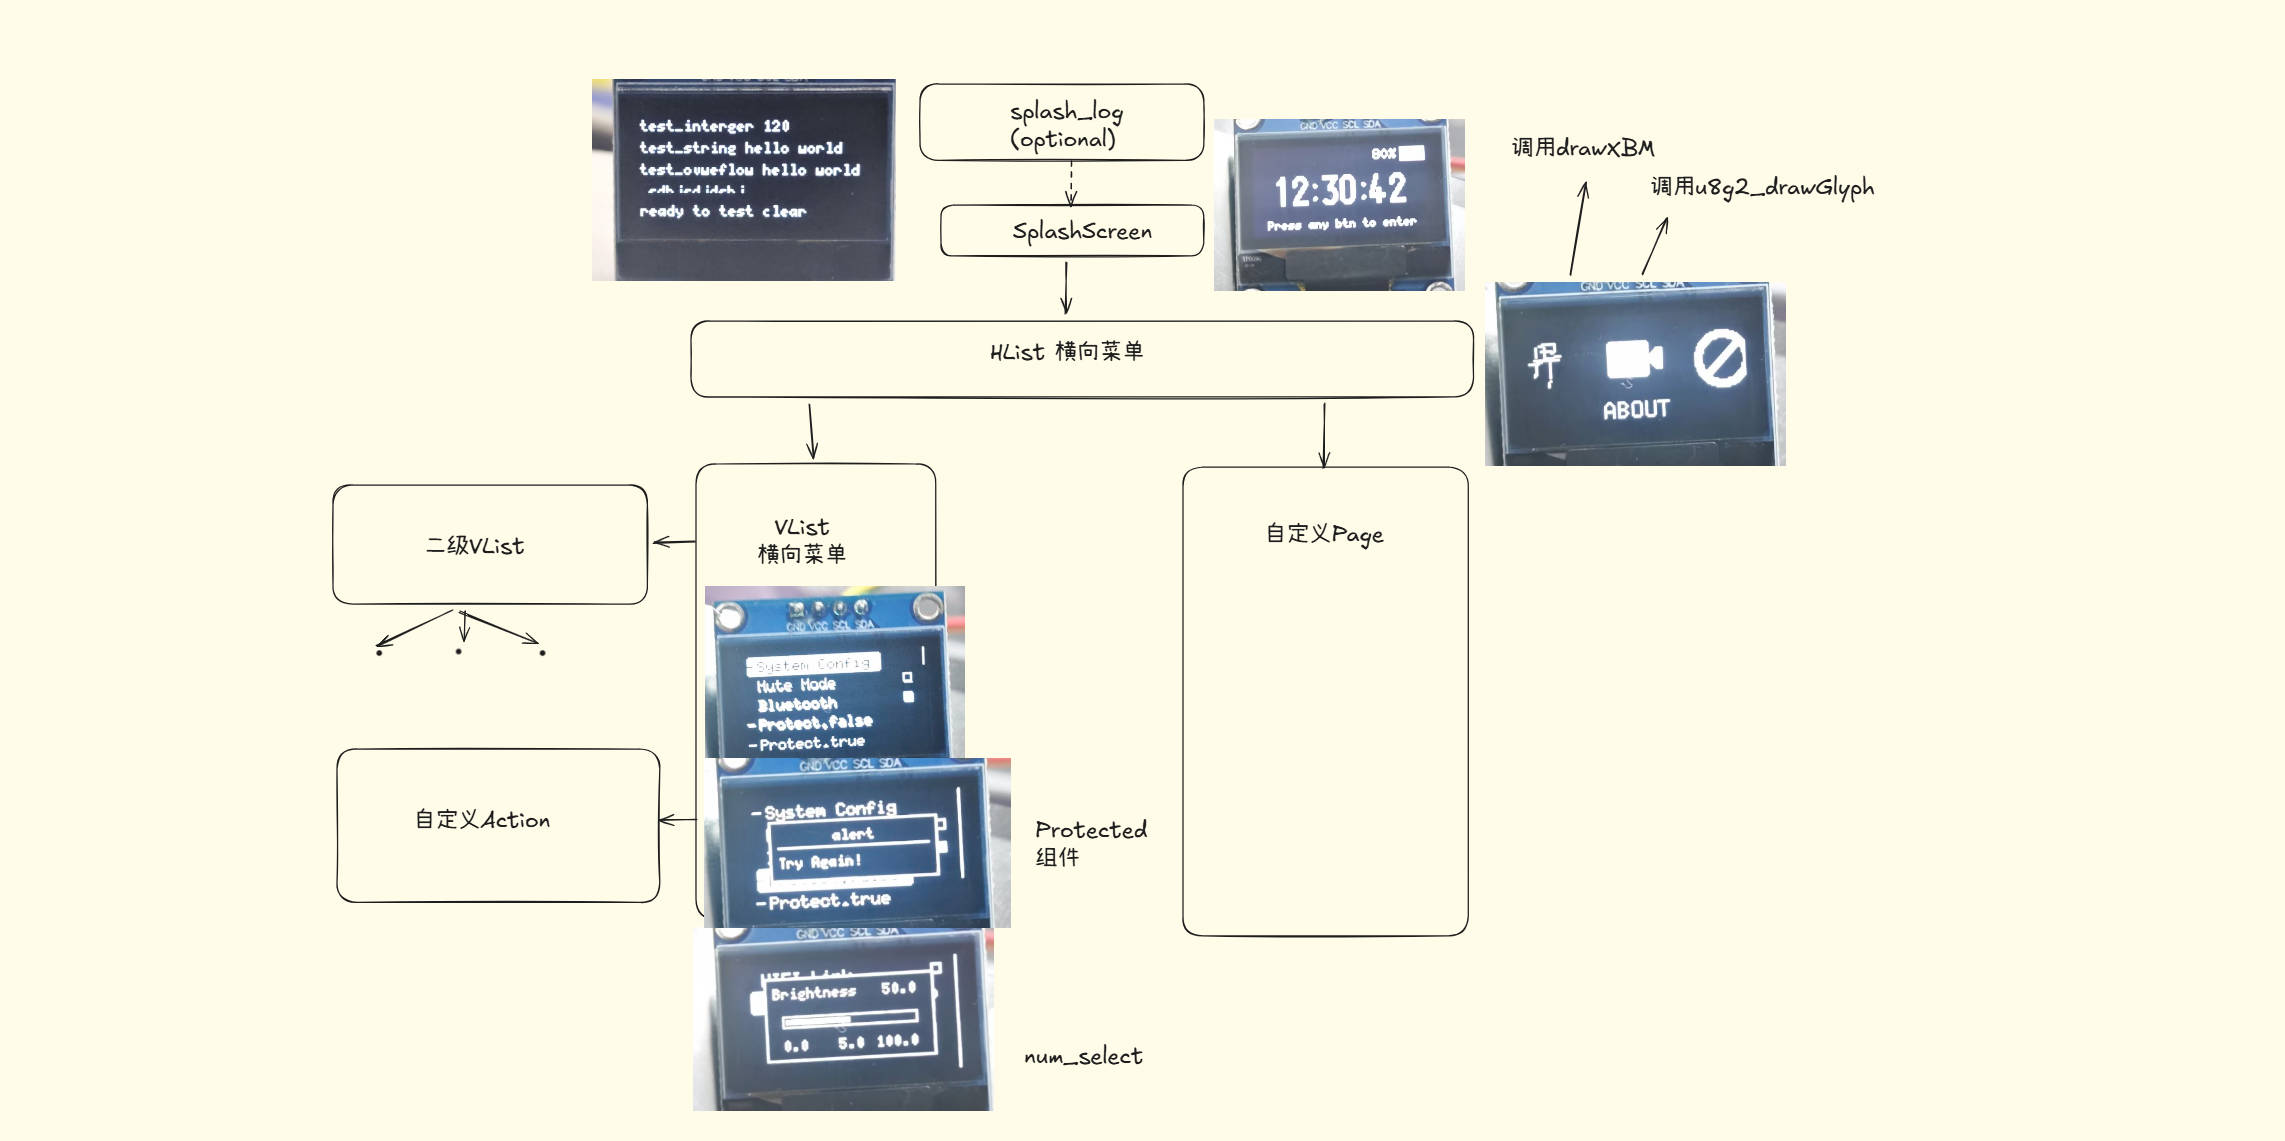
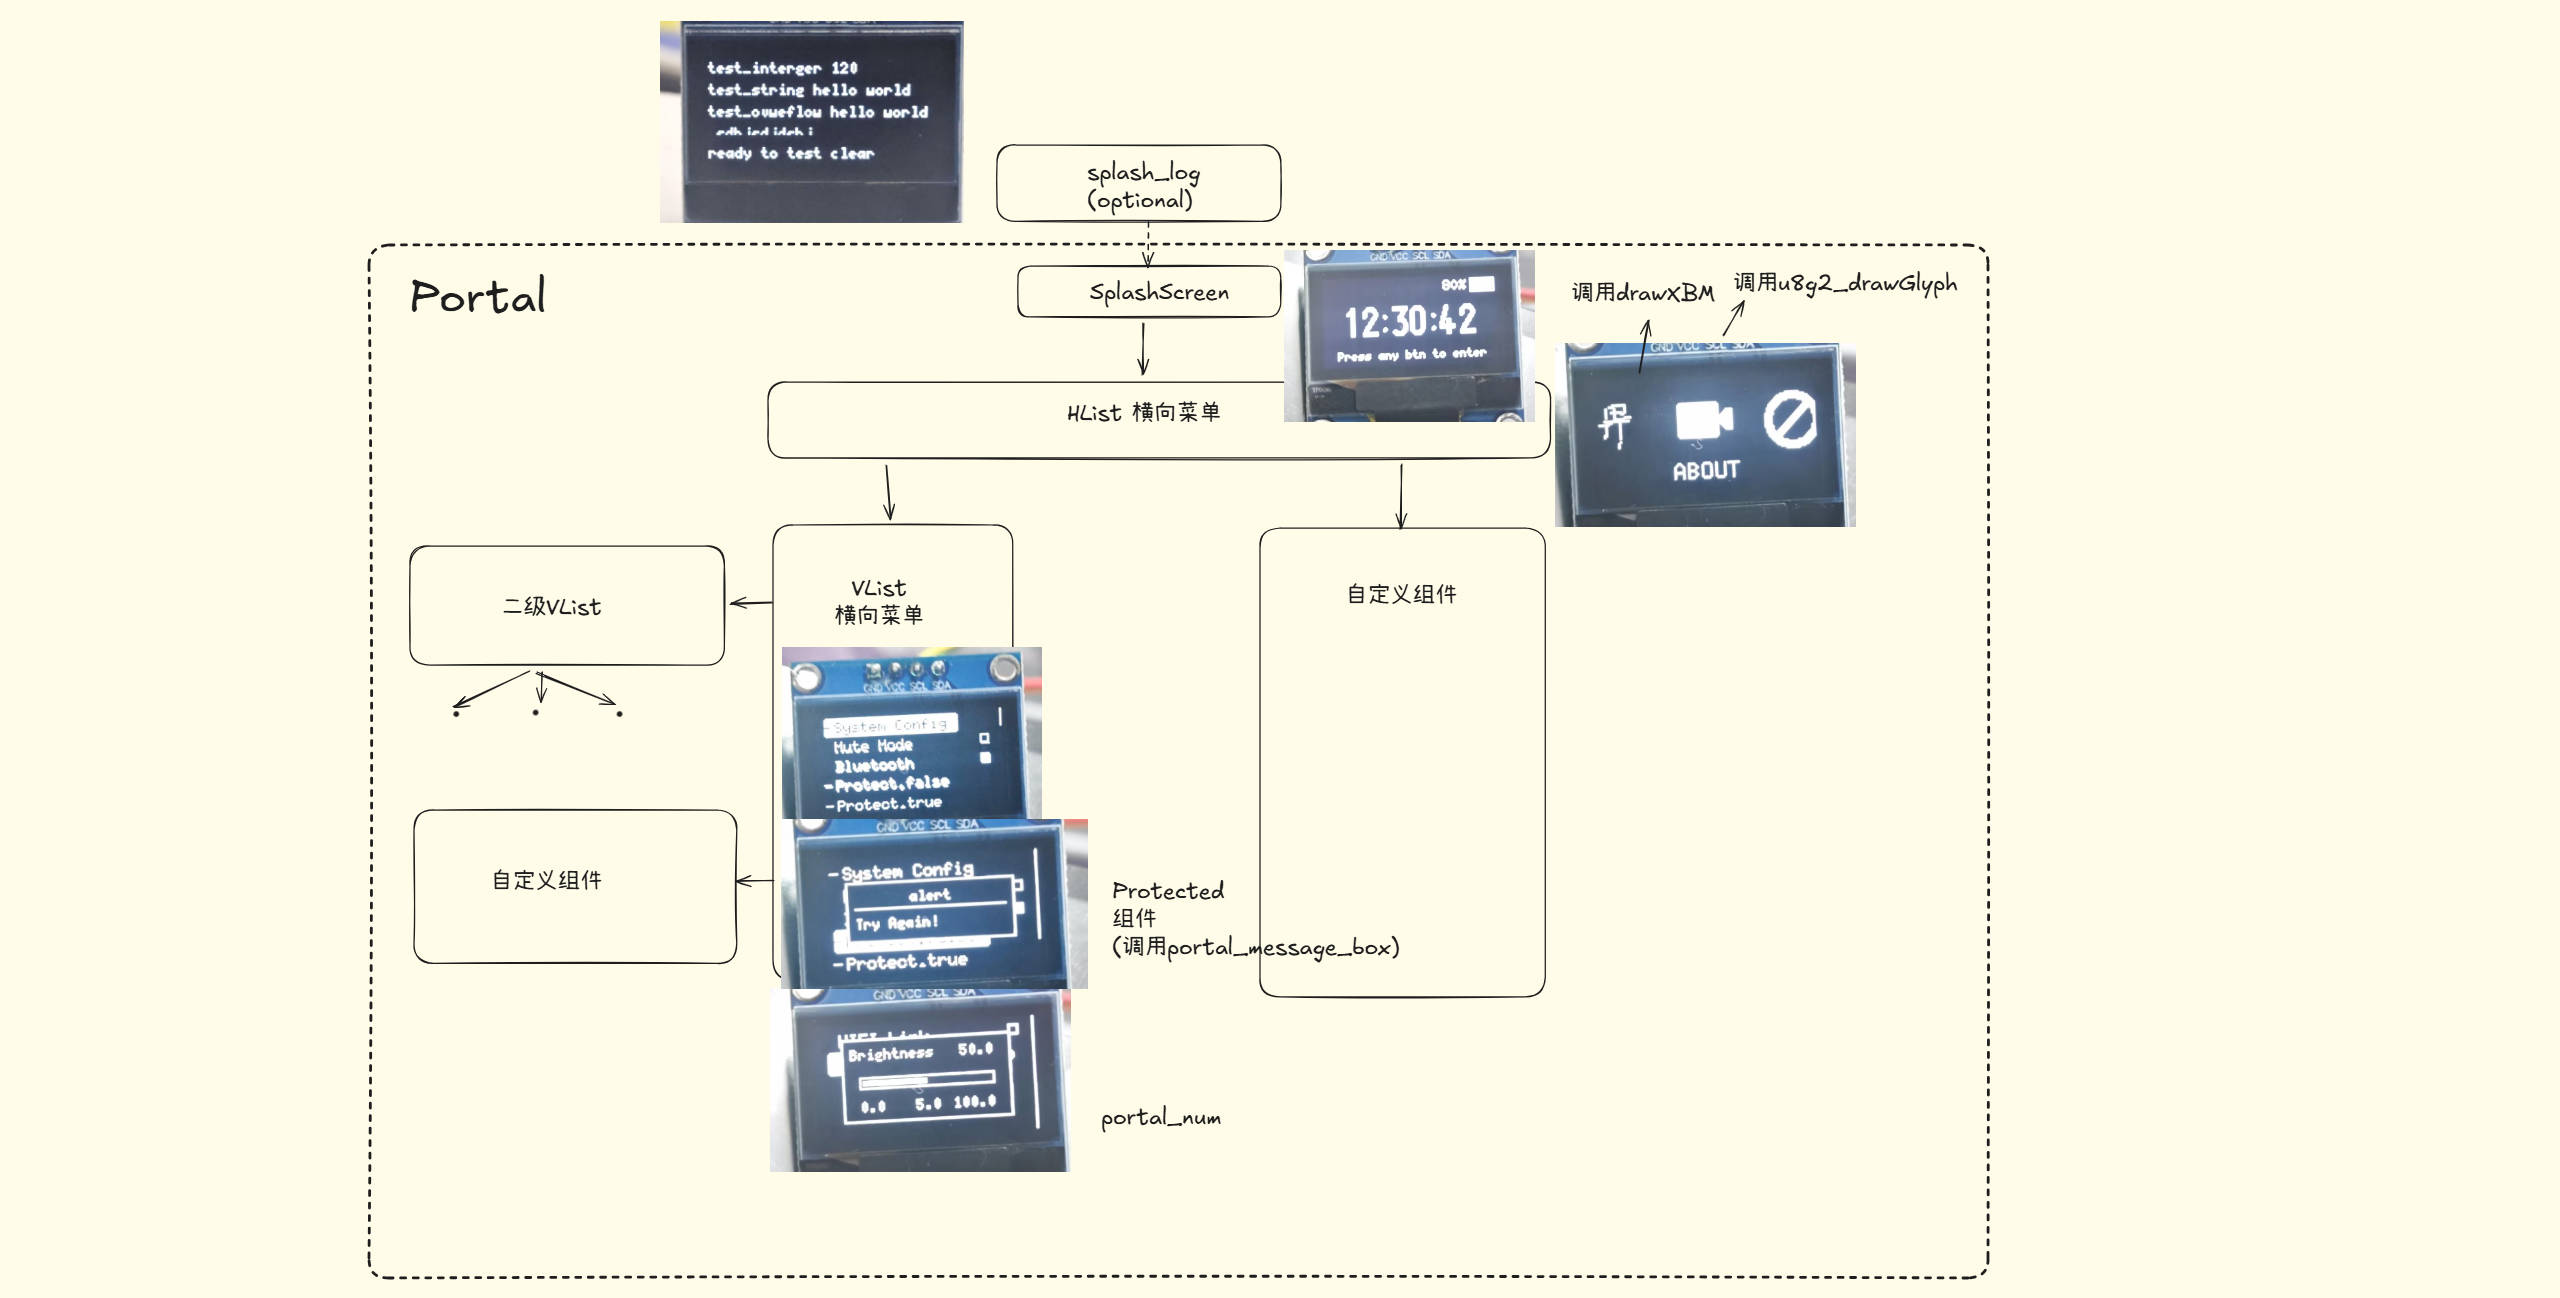
[update]: 添加 portal 以及相关通用组件，将VList与HList的alert实现转到portal上

diff --git a/User/UI/portal_component.c b/User/UI/portal_component.c
@@ -29,7 +29,7 @@ static void portal_messagebox_draw(u8g2_t *u8g2, int16_t x, int16_t y, uint8_t w
     }
 }
 
-static void portal_mbox_input(int btn, void *ctx) {
+static void portal_message_box_input(int btn, void *ctx) {
     if (btn == BTN_ENTER || btn == BTN_BACK) {
         page_stack_portal_toggle(&g_page_stack, NULL, NULL, 0);
     }
@@ -37,7 +37,7 @@ static void portal_mbox_input(int btn, void *ctx) {
 
 const portal_component_t PORTAL_MESSAGE_BOX = {
     .draw = portal_messagebox_draw, 
-    .input = portal_mbox_input,
+    .input = portal_message_box_input,
     .w = 100, 
     .h = 35
 };

diff --git a/README.md b/README.md
@@ -11,8 +11,75 @@
                               |- ...        |- ...
 ```
 ![](https://raw.githubusercontent.com/dggduu/my-u8g2-ui-toolkit/main/IMG/recommended-structure.jpg)
-#### splash_log
-一套用于提供类似终端输出的组件，基于 vsnprintf
+## 相关概念
+### splash_log
+一套用于提供类似终端输出的组件，基于 vsnprintf , 适用于初始化阶段，文本溢出后自动换行。注意该函数不是页面栈的一部分，通过调用 splash_log_printf 才会刷新屏幕缓冲区，不建议与会经常刷新缓冲区的函数一起使用。
+### splash_screen
+类似前端概念中的 应用启动页（splash_screen），可以用于手表界面的首屏，也可以当黑屏使用通过添加全局回调或者使用 splash_screen_jump() 函数，可以实现在任意界面直接跳转到 splash_screen，跳转后页面栈将清空。  
+当
+### Portal
+（仅对页面栈类组件有效，splash_log状态无法调用）  
+类似 React 开发中的 portal 组件，用于将自定义绘制回调绘制在最顶层，当激活时将拦截原本要传入到底层的 btn_fifo 并传给相应 portal组件 的 input 回调  
+#### 如何使用
+portal 的使用很简单
+```c
+void page_stack_portal_toggle(page_stack_t *ps, const portal_component_t *comp,
+                              void *ctx, size_t ctx_size);
+// Exmaple
+page_stack_portal_toggle(
+    &g_page_stack, &PORTAL_MESSAGE_BOX,
+    &(portal_ctx_message_box_t){.title = "Warning", .msg = it->alert_text},
+    sizeof(portal_ctx_message_box_t));
+```
+**你需要访问 `portal_component.h` 来查看相对应的 portal 上下文结构体定义以及portal组件的名称**  
+#### 如何编写新的 portal 组件
+访问 `portal_component.h`后，你会发现 portal 组件这样定义的
+```c
+const portal_component_t PORTAL_MESSAGE_BOX = {
+    .draw = portal_messagebox_draw, 
+    .input = portal_mbox_input,
+    .w = 100, 
+    .h = 35
+};
+```
+是不是与组件的很像，`.w`代表该 portal 的宽度，`.h`代表该 portal 的显示高度，组件只能居中显示。
+你需要编写
+```c
+// 推荐的命名规范 portal_*，portal_ctx_*
+
+// portal 组件上下文
+typedef struct {
+    const char *title;
+    const char *msg;
+} portal_ctx_message_box_t;
+
+// portal 组件绘制回调（注意：x,y:当前portal外框左上角第一个像素点的位置；w,h:当前Portal 外框的宽高）
+static void portal_messagebox_draw(u8g2_t *u8g2, int16_t x, int16_t y, uint8_t w, uint8_t h, void *ctx)
+// portal 组件输入回调
+static void portal_message_box_input(int btn, void *ctx)
+// 注册组件
+const portal_component_t PORTAL_MESSAGE_BOX = {
+    .draw = portal_messagebox_draw, 
+    .input = portal_mbox_input,
+    .w = 100, 
+    .h = 35
+};
+// 导出组件
+extern const portal_component_t PORTAL_MESSAGE_BOX;
+```
+### Protected组件
+当 guard_flag 为 false 时弹出弹窗，并无法进行下一步操作（如跳转到下一个page,menu...）  
+当 guard_flag 为 true 时不会弹出弹窗，直接进行下一步操作
+### 自定义组件
+通过编写绘制回调（draw_handler）以及输入回调（input_handler）,并使用注册函数进行注册
+```c
+const page_component_t OSC_APP_COMP = {.draw = osc_app_draw,.input = osc_app_input};
+```
+通过该方式可以实现一个简单的MVC模式（Model: 全局变量/上下文，View：draw_handler，Controller：input_handler）  
+你可以查看main.c(下面的例程)中的`OSC_APP_COMP`以及`User - UI - Component`下面看看如何使用  
+
+## How to porting
+将User - UI 下的文件以及 btn_fifo 复制出来即可。btn_fifo.h 中定义了框架中所使用的按键类型，目前没有做按键类型桥接层的计划，需要自己实现。
 ## How to use
 ```c
 #include "Delay.h"
@@ -200,8 +267,10 @@ static void uart_btn_process(void) {
       break;
     case 'l':
       btn_fifo_push(BTN_LEFT);
+      break;
     case 'r':
       btn_fifo_push(BTN_RIGHT);
+      break;
     default:
       break;
     }
@@ -215,6 +284,8 @@ int main(void) {
   btn_fifo_init();
   IIC_Init();
   u8g2Init(&u8g2);
+
+  // 这一段可以直接去掉
   splash_log_init(&u8g2, g_screen_cfg.font_height, u8g2_font_5x7_tf);
   splash_log_clear();
   splash_log_printf("splash_log inited");
@@ -227,11 +298,11 @@ int main(void) {
   Delay_ms(100);
   splash_log_printf("...ok");
   Delay_ms(100);
-  splash_log_printf("        /Nya! Powered");
-  splash_log_printf("   /|/|       By");
-  splash_log_printf("  (- - |      dggduu's");
-  splash_log_printf("   |、~\       OLED UI");
-  splash_log_printf("  //_,)/      Toolkit");
+  splash_log_printf("        /Nya!  Powered");
+  splash_log_printf("   /|/|        By");
+  splash_log_printf("  (- - |       dggduu's");
+  splash_log_printf("   |、~\        U8g2 UI");
+  splash_log_printf("  //_,)/       Toolkit");
   Delay_ms(3000);
   splash_log_printf("test_float %.1f", 12.8);
   splash_log_printf("test_interger %2d", 120);
@@ -241,7 +312,7 @@ int main(void) {
   splash_log_printf("ready to test clear");
   Delay_ms(1000);
   splash_log_clear();
-
+  // 上面这些可以去掉
   page_stack_init(&g_page_stack, &u8g2);
   ui_menu_init();
 
